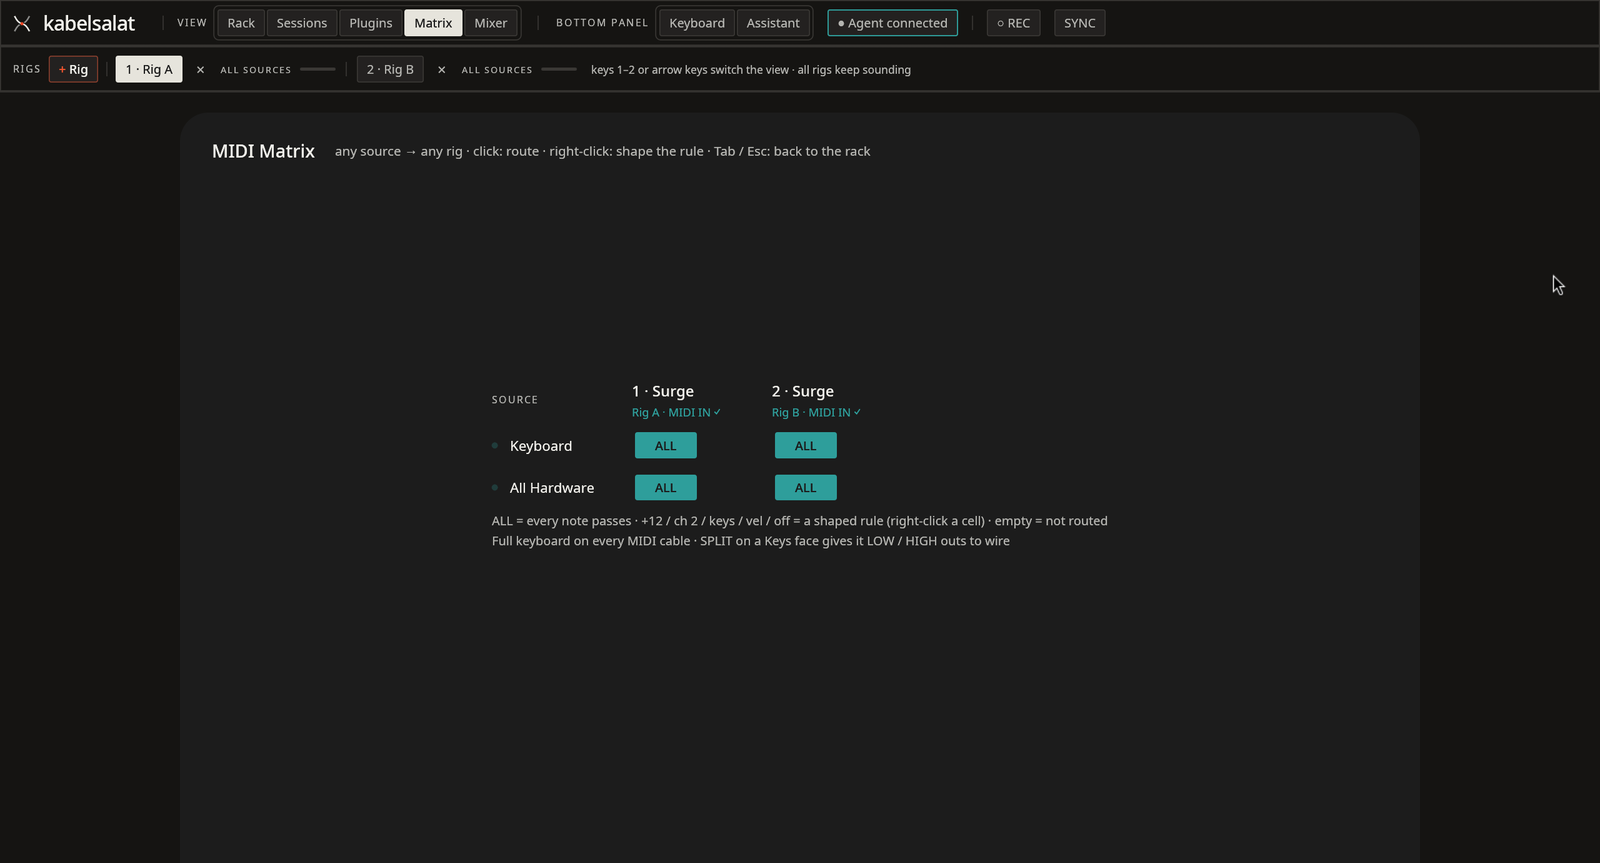
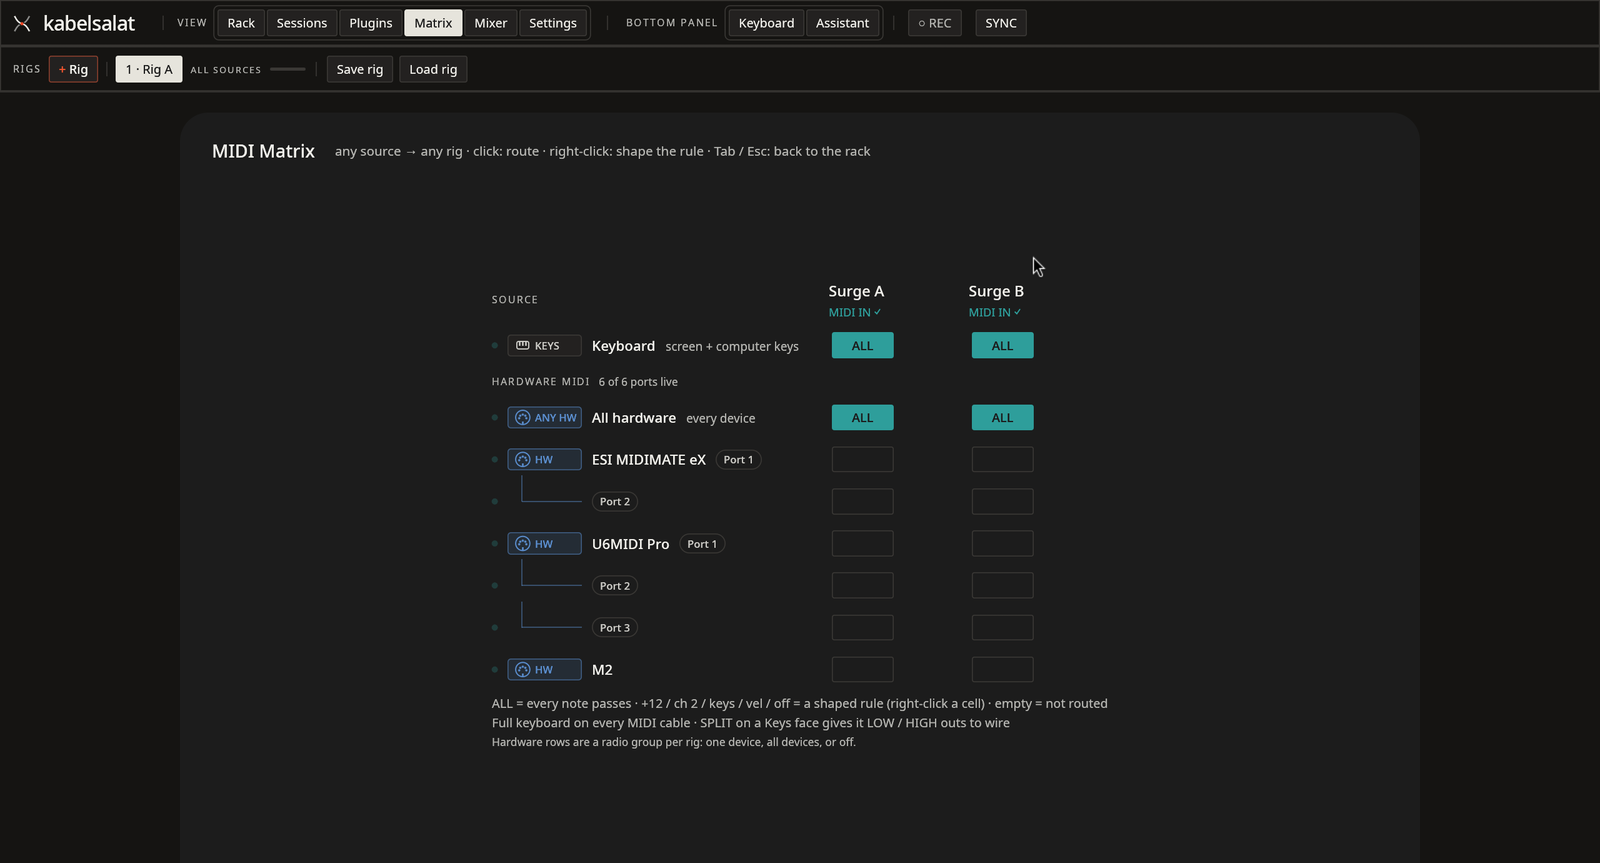
docs(readme): matrix screenshot shows the hardware sources

diff --git a/README.md b/README.md
@@ -58,7 +58,7 @@ The MIDI matrix decides which keyboard plays which rig. Each connection can be
 shaped: only some keys (keyboard splits), another MIDI channel, transposed, or
 only loud notes.
 
-<p align="center"><img src="docs/shots/matrix.png" width="85%" alt="The MIDI matrix: keyboard and hardware sources routed to two rigs"/></p>
+<p align="center"><img src="docs/shots/matrix.png" width="85%" alt="The MIDI matrix: the keyboard and each hardware MIDI device, badged and grouped by port, routed to two synths"/></p>
 
 ### Control knobs from your controller
 Right-click any knob, turn a knob on your MIDI controller — bound. The knob
